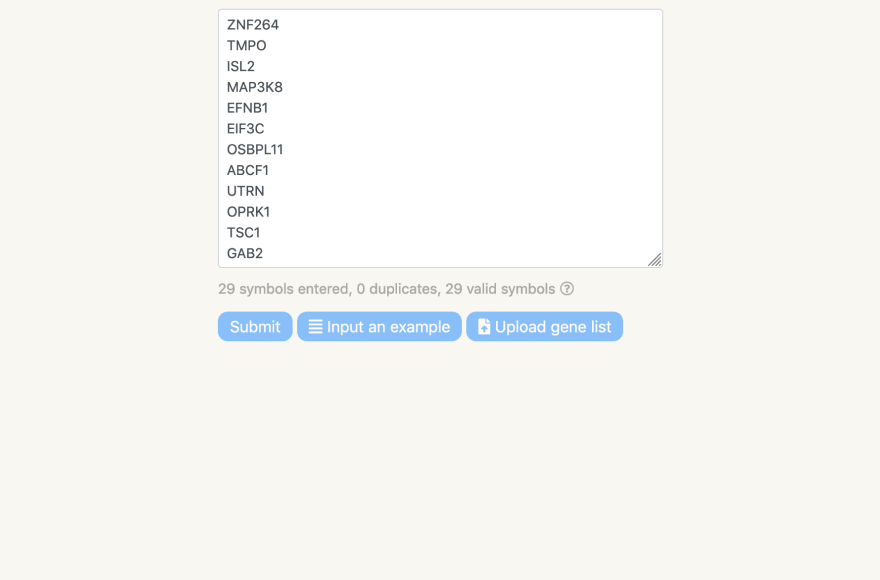
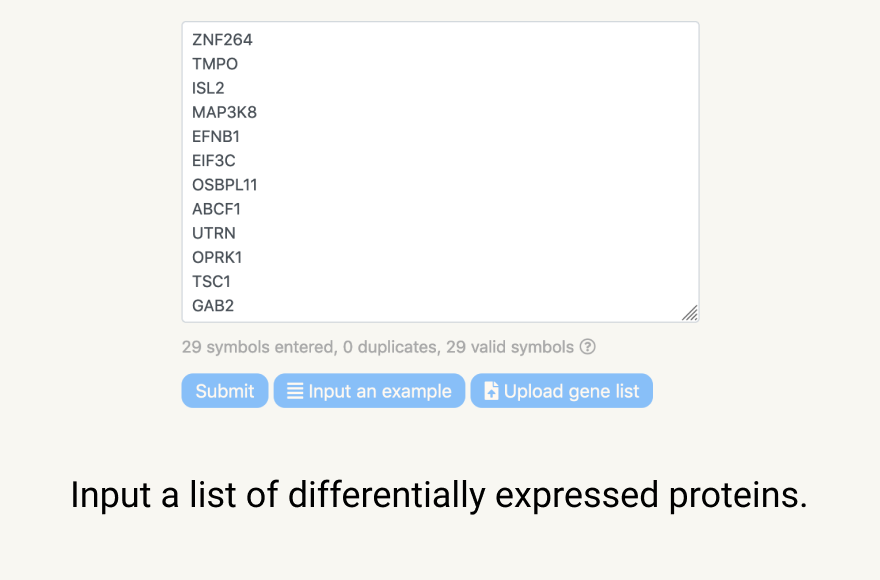
Added carousel captions to images, instead of hacky margins

diff --git a/src/main/webapp/templates/form.html b/src/main/webapp/templates/form.html
@@ -55,23 +55,23 @@
                 </div>
                 <div class="carousel-item">
                     <img src="static/carousel1.png" class="d-block w-100 img-fluid" alt="...">
-                    <div class="carousel-caption d-none d-md-block">
-                        <p>Input a list of differentially expressed proteins.</p>
-                    </div>
+<!--                    <div class="carousel-caption d-none d-md-block">-->
+<!--                        <p>Input a list of differentially expressed proteins.</p>-->
+<!--                    </div>-->
                 </div>
                 <div class="carousel-item">
                     <img src="static/carousel2.png" class="d-block w-100 img-fluid" alt="...">
-                    <div class="carousel-caption d-none d-md-block">
-                        <p>KEA performs enrichment analysis on the inputted list of differentially expressed proteins
-                            using gene set libraries from kinase-substrate interaction databases.</p>
-                    </div>
+<!--                    <div class="carousel-caption d-none d-md-block">-->
+<!--                        <p>KEA performs enrichment analysis on the inputted list of differentially expressed proteins-->
+<!--                            using gene set libraries from kinase-substrate interaction databases.</p>-->
+<!--                    </div>-->
                 </div>
                 <div class="carousel-item">
                     <img src="static/carousel3.png" class="d-block w-100" alt="...">
-                    <div class="carousel-caption d-none d-md-block">
-                        <p>A ranked list of the top predicted kinases is displayed as networks, subnetworks, bar graphs
-                            and a clustergram.</p>
-                    </div>
+<!--                    <div class="carousel-caption d-none d-md-block">-->
+<!--                        <p>A ranked list of the top predicted kinases is displayed as networks, subnetworks, bar graphs-->
+<!--                            and a clustergram.</p>-->
+<!--                    </div>-->
                 </div>
             </div>
         </div>
